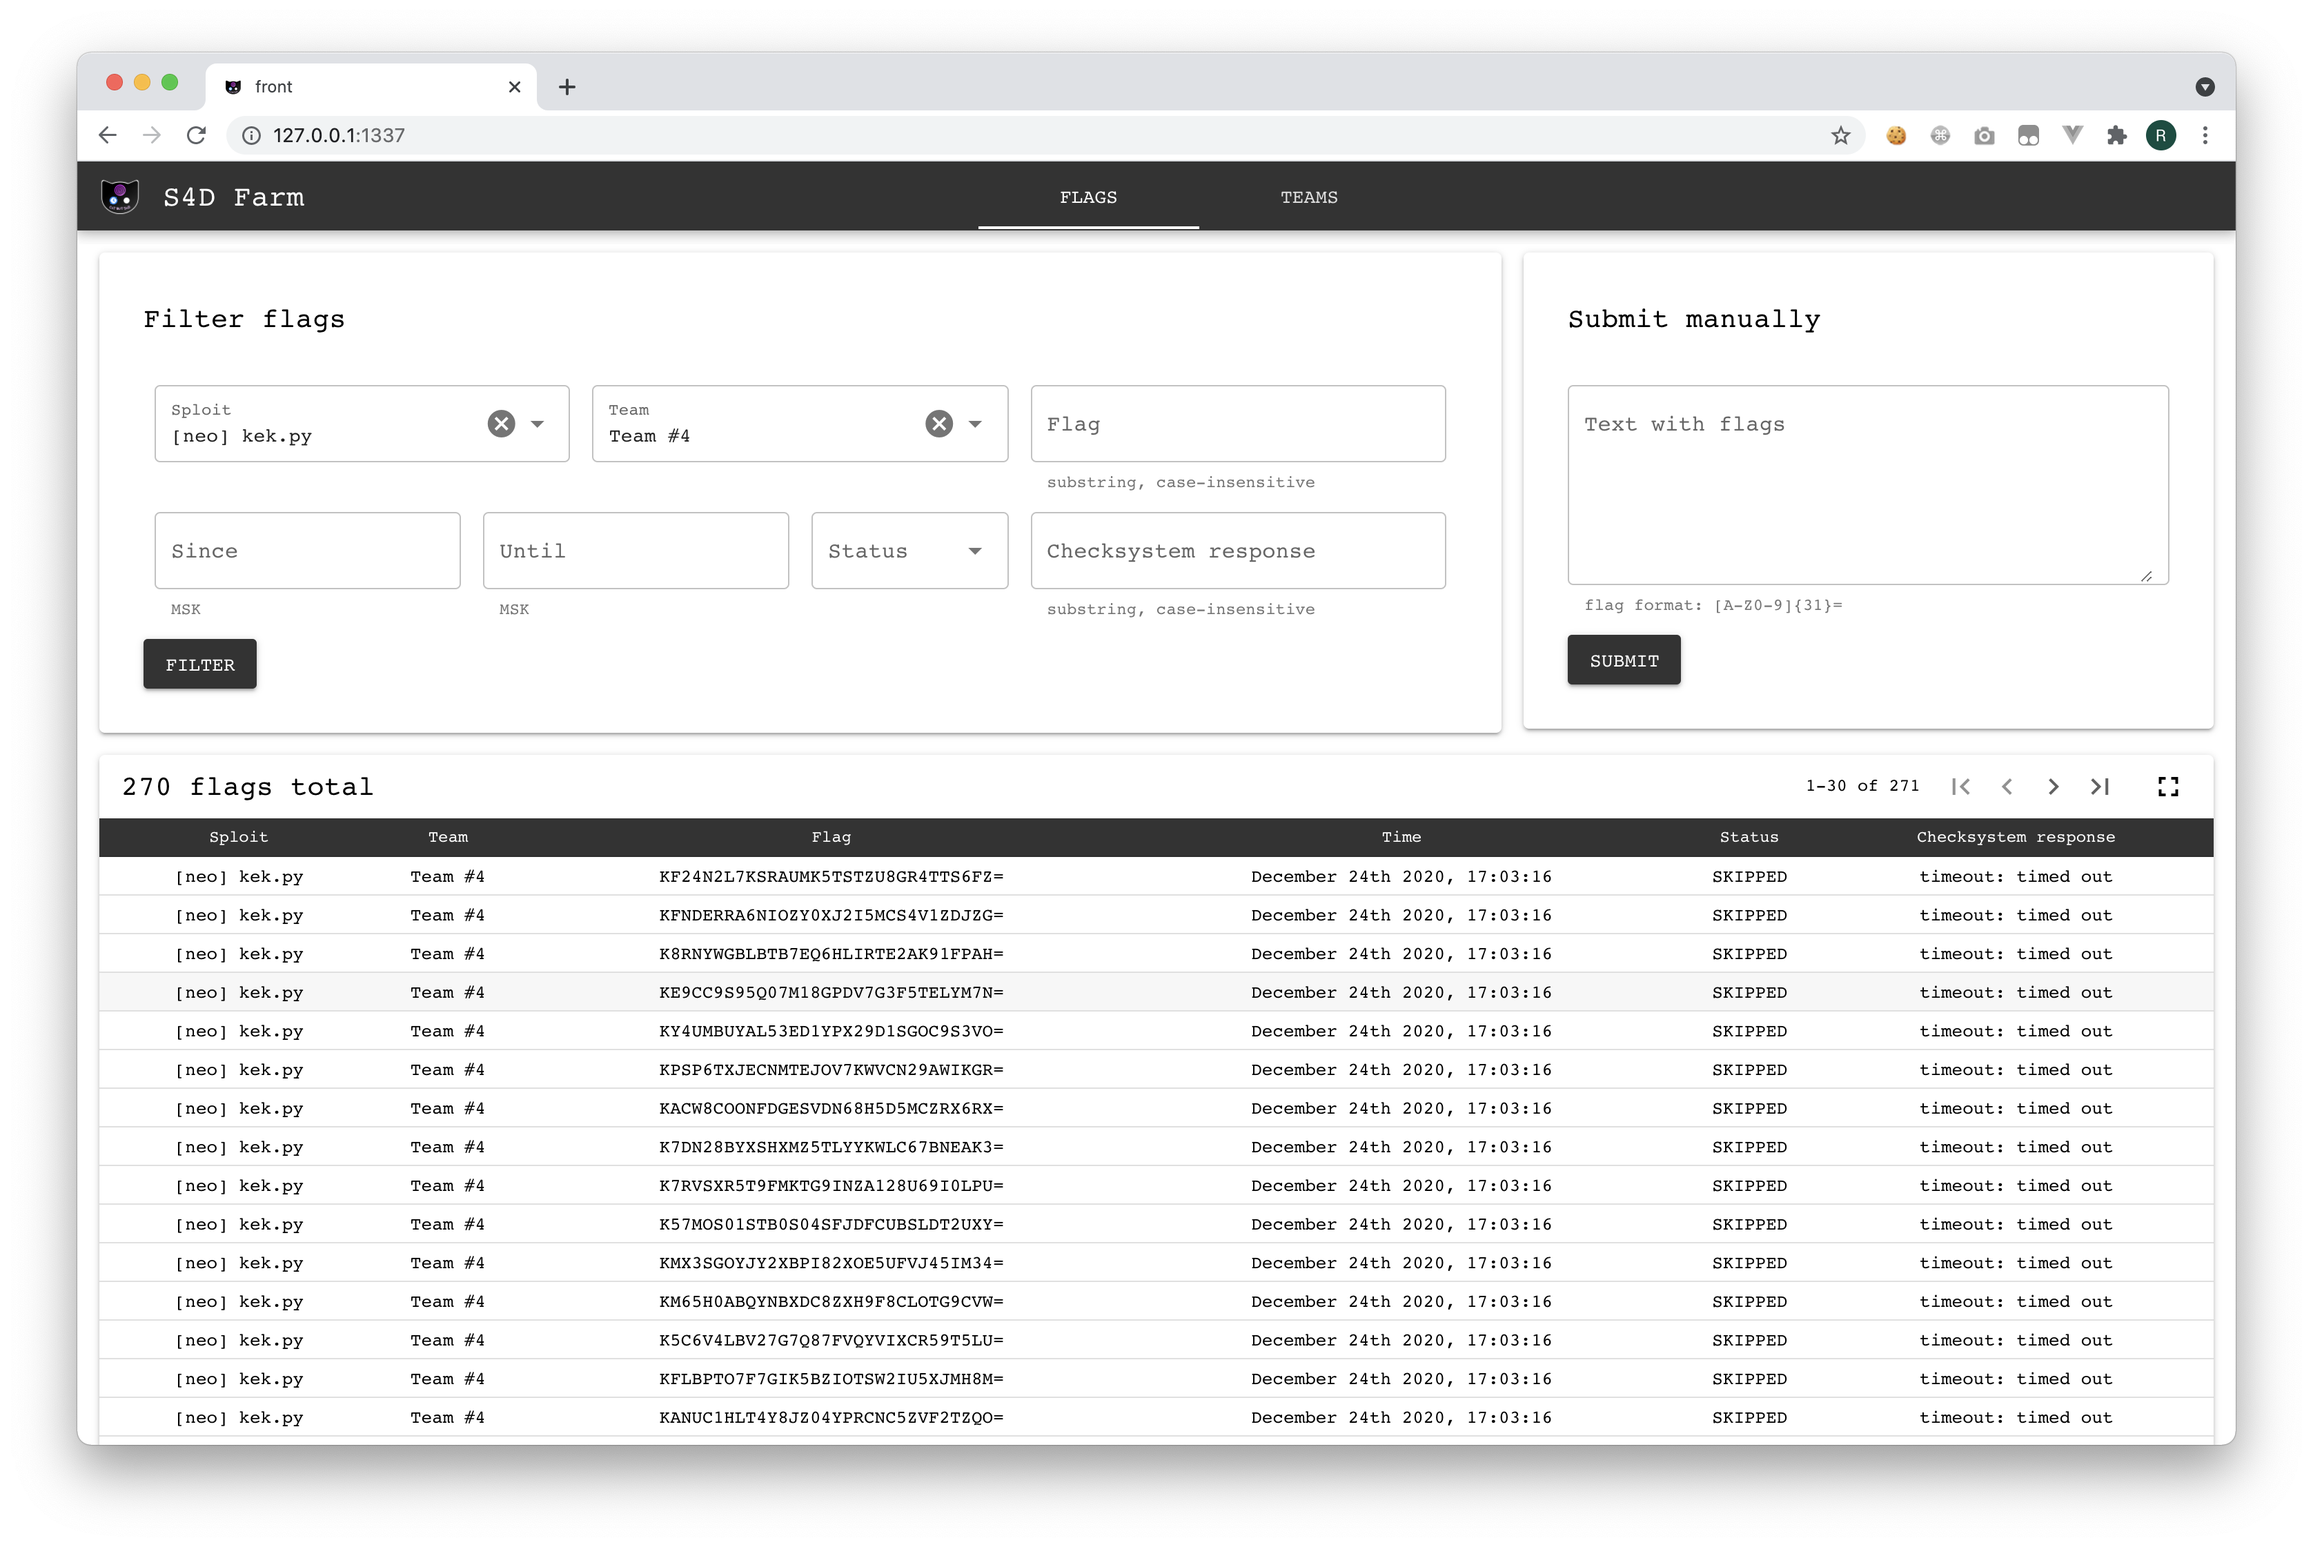
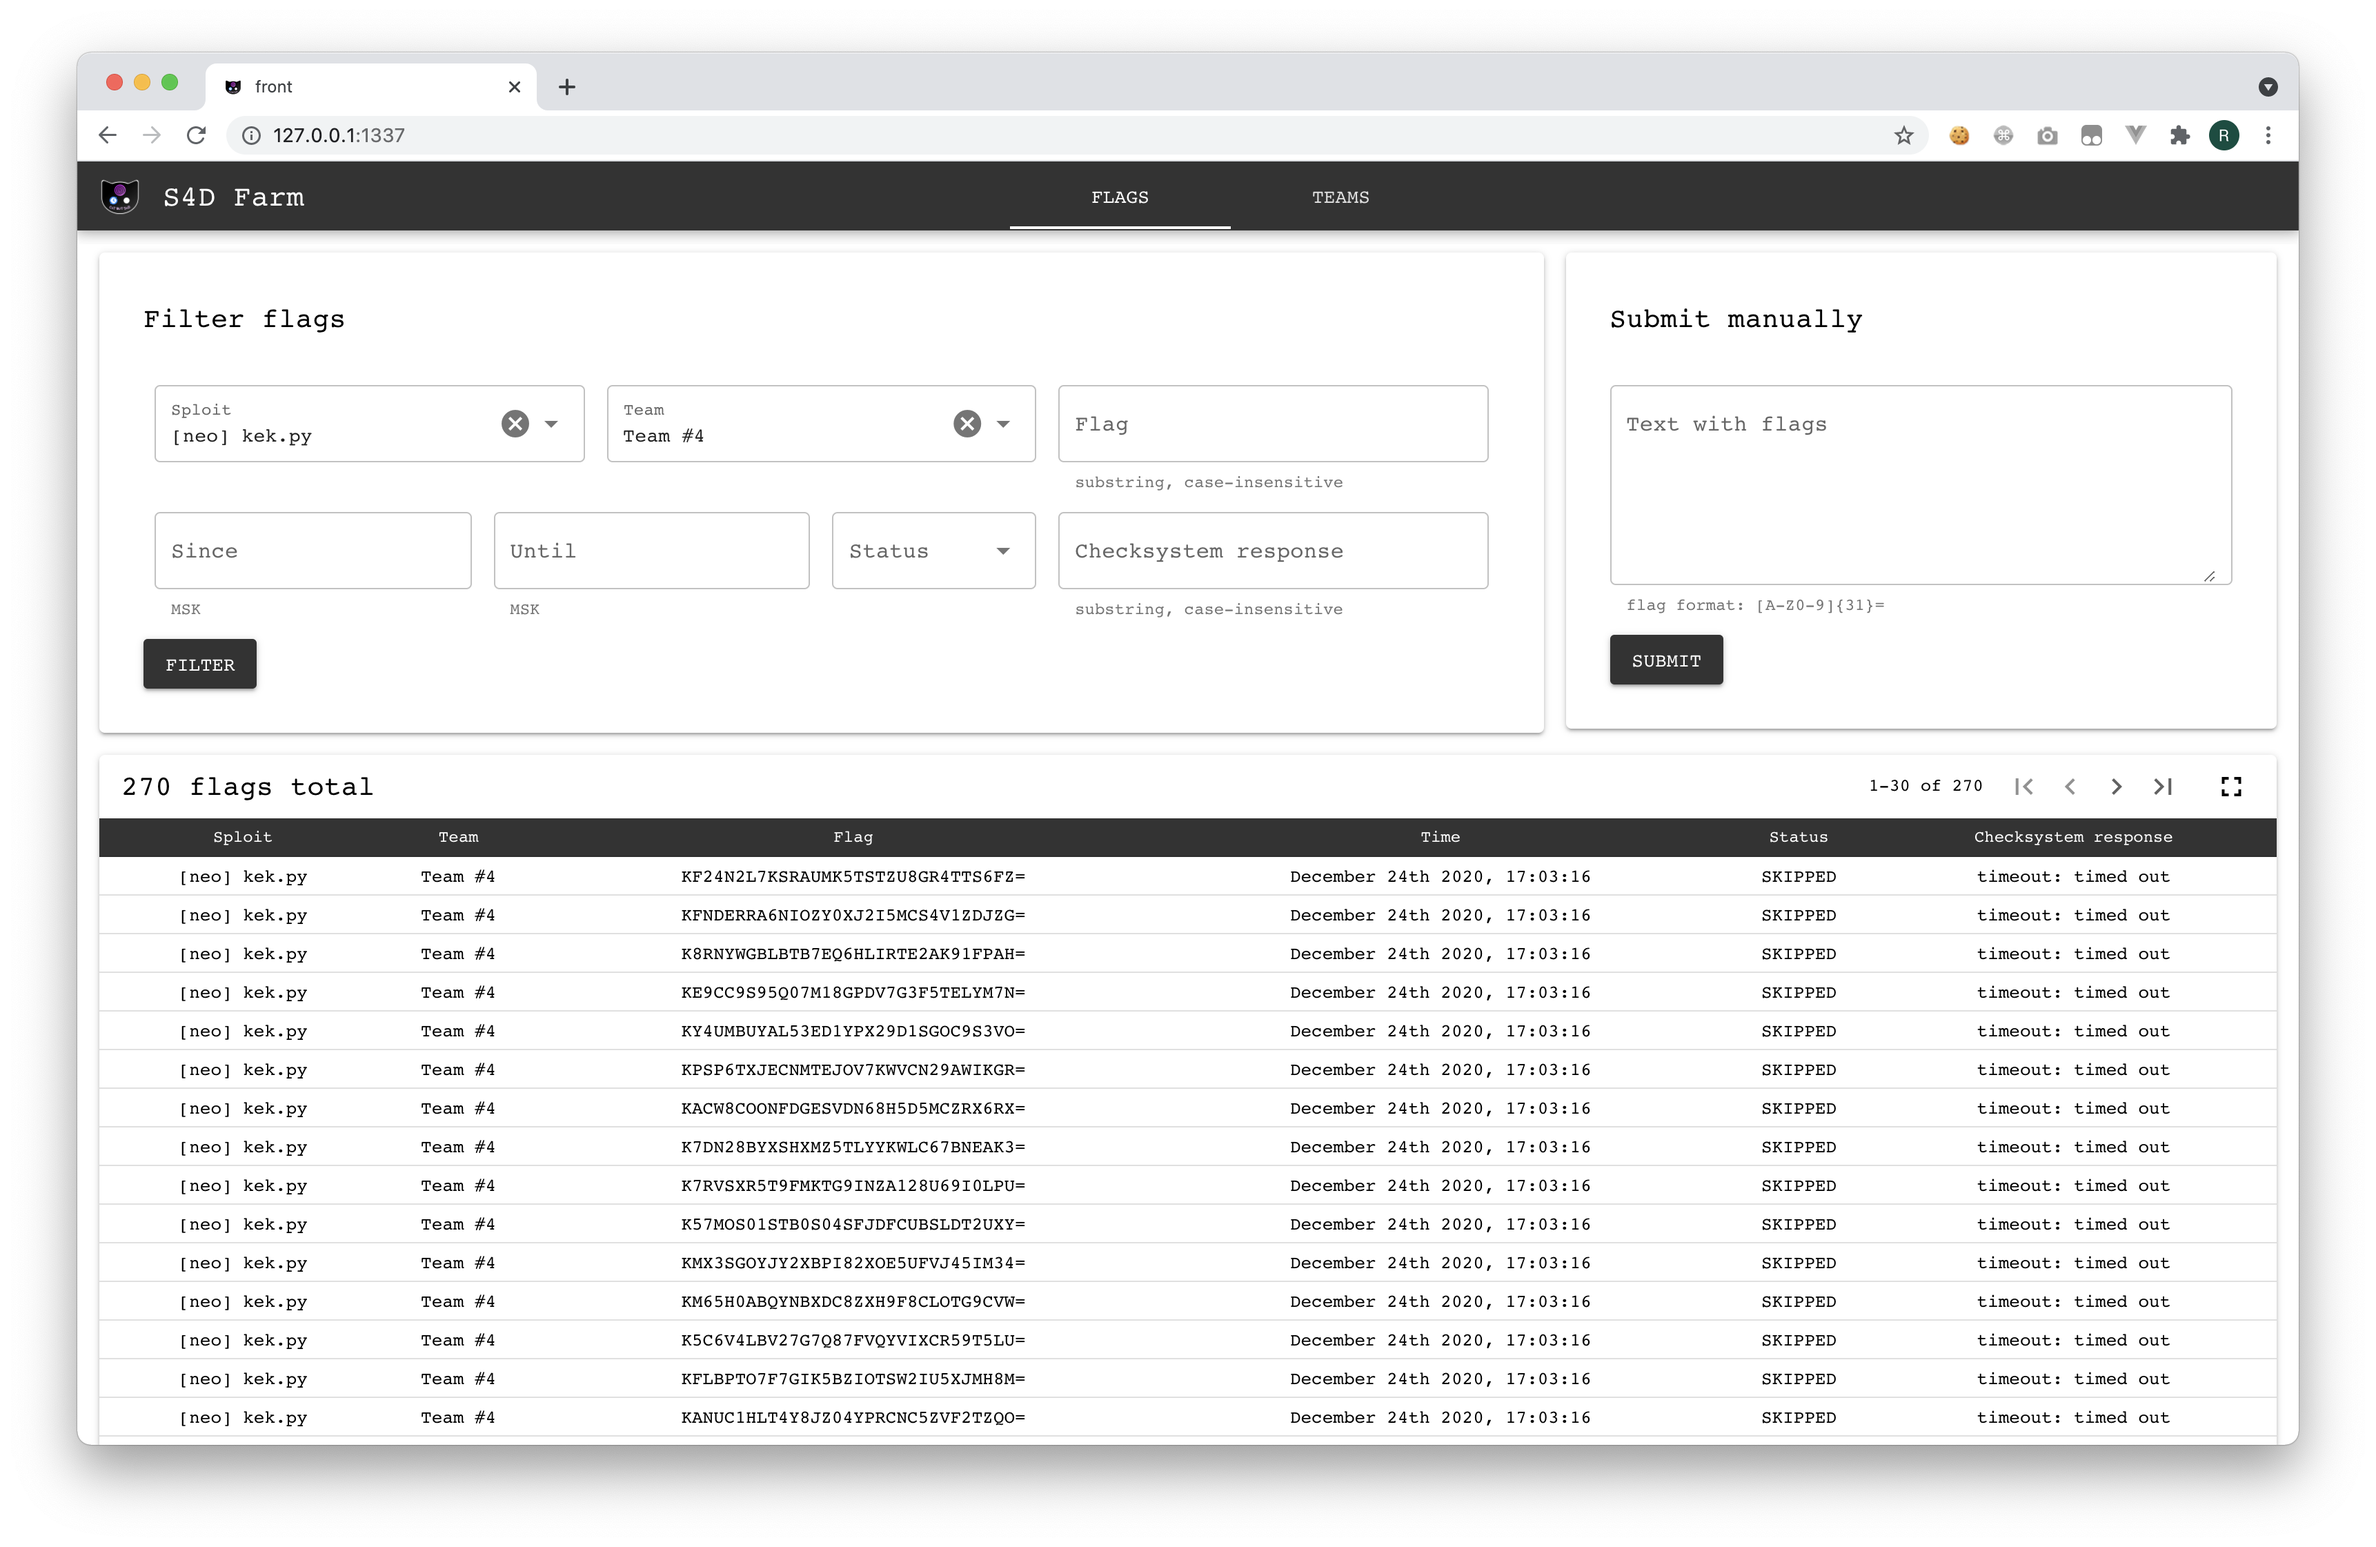
Fixed a minor demo bug in pagination

diff --git a/server/front/src/components/PaginationCustom.vue b/server/front/src/components/PaginationCustom.vue
@@ -62,7 +62,7 @@ export default {
     paginationMessage: function () {
       const firstRow = this.pageSize * (this.page - 1) + 1;
       const lastRow = this.pageSize * this.page;
-      return `${firstRow}-${lastRow} of ${this.total + 1}`;
+      return `${firstRow}-${lastRow} of ${this.total}`;
     },
   },
   emits: ["firstPage", "prevPage", "nextPage", "lastPage"],
